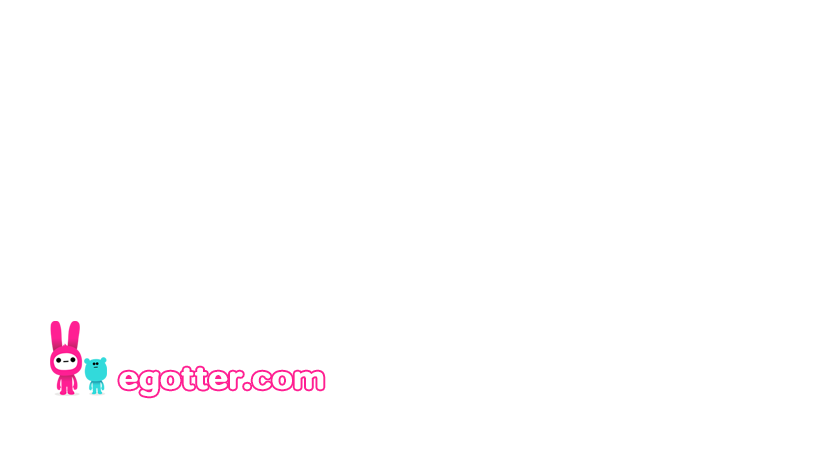
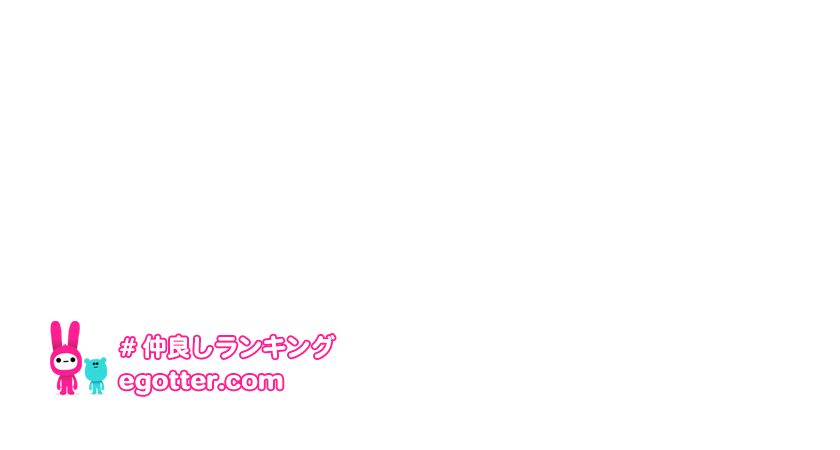
Add new hashtag to CloseFriends

Changed region(s): [[0.1238, 0.7467, 0.4024, 0.9022]]

diff --git a/app/javascript/packs/heart.js b/app/javascript/packs/heart.js
@@ -9,7 +9,7 @@ class Heart {
     this.count = 0;
     this.users = users;
     this.elem = d3.select('#' + id);
-    this.name = '仲良しランキング';
+    this.name = '#仲良しランキング';
     this.domain = 'egotter.com';
   }
 
